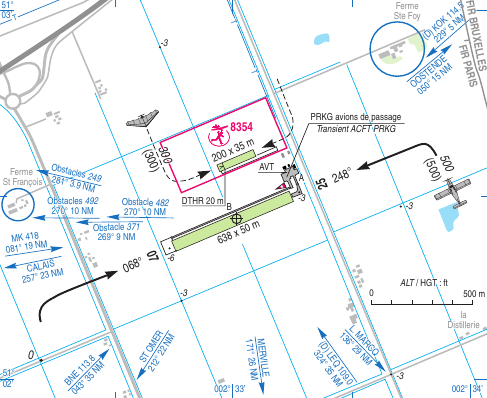
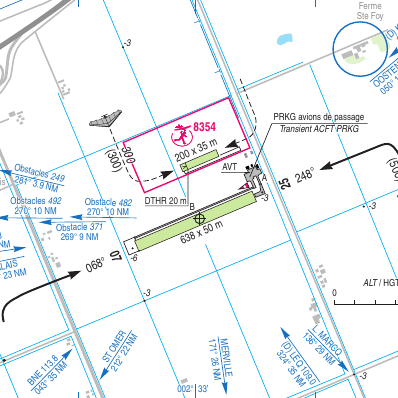
windows dimension and placement

diff --git a/src/display.cpp b/src/display.cpp
@@ -17,8 +17,8 @@ void display(CCR &ccr, vector<Plane> &planes) {
   windowMap.setVerticalSyncEnabled(true);
   windowMap.setFramerateLimit(60);
 
-  RenderWindow windowAirport(VideoMode(700, 500), "");
-  windowAirport.setPosition(Vector2i(1100, 300));
+  RenderWindow windowAirport(VideoMode(1920-1362, 1920-1362), "");
+  windowAirport.setPosition(Vector2i(windowMap.getSize().x, 0));
   windowAirport.setVerticalSyncEnabled(true);
   windowAirport.setFramerateLimit(60);
   int count = 0;
